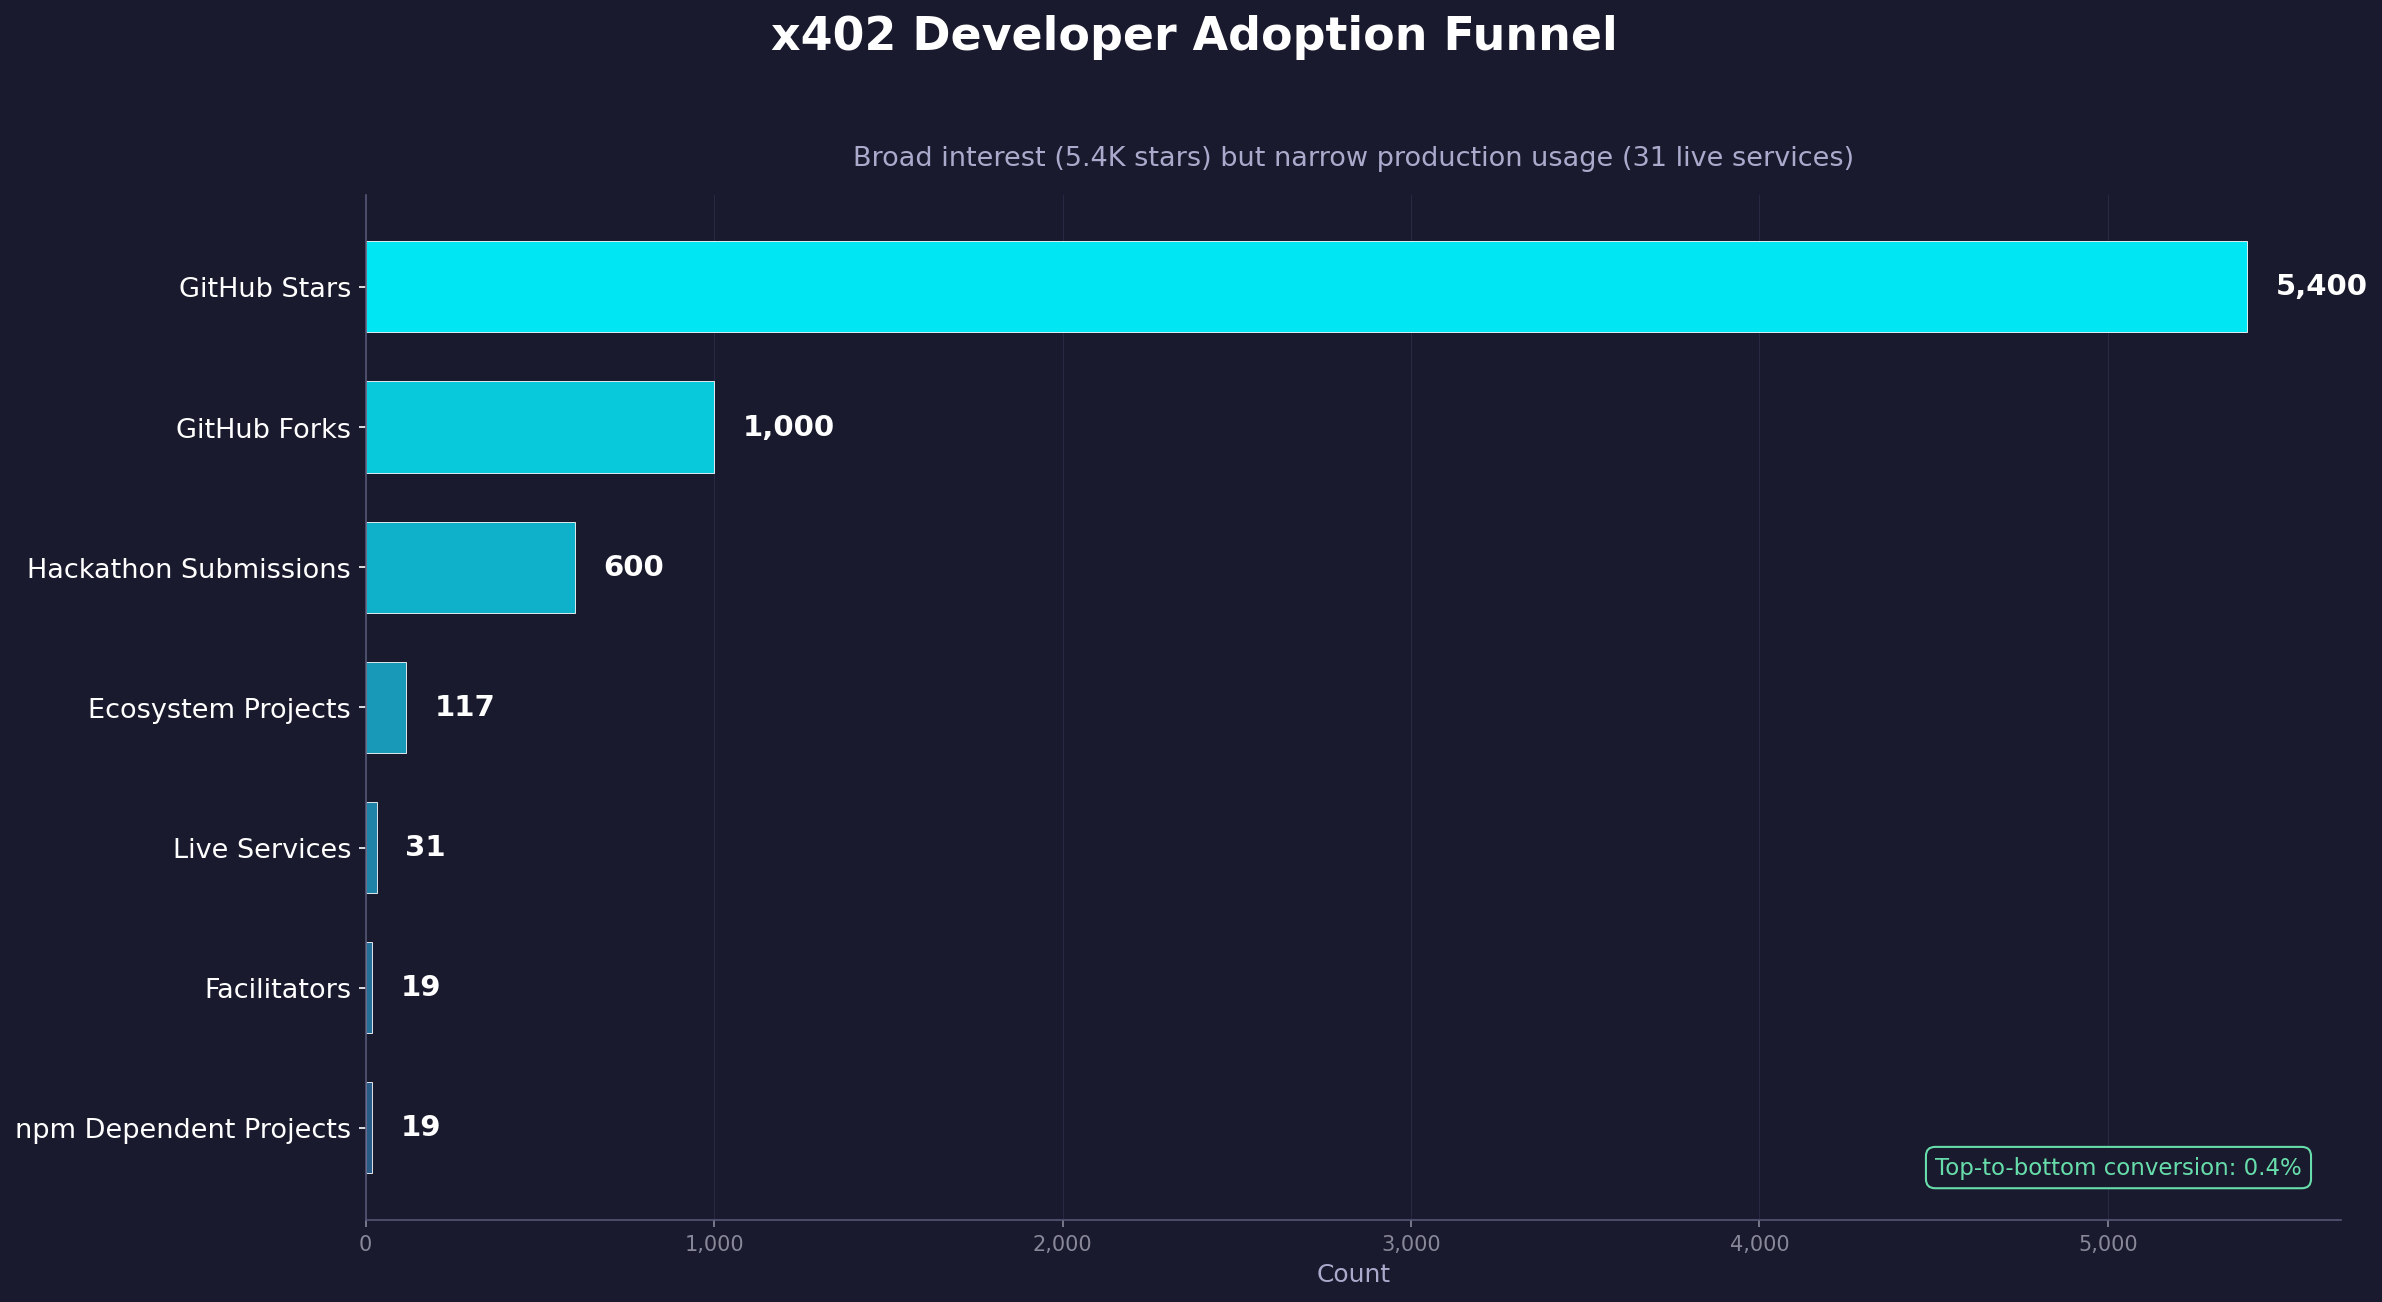
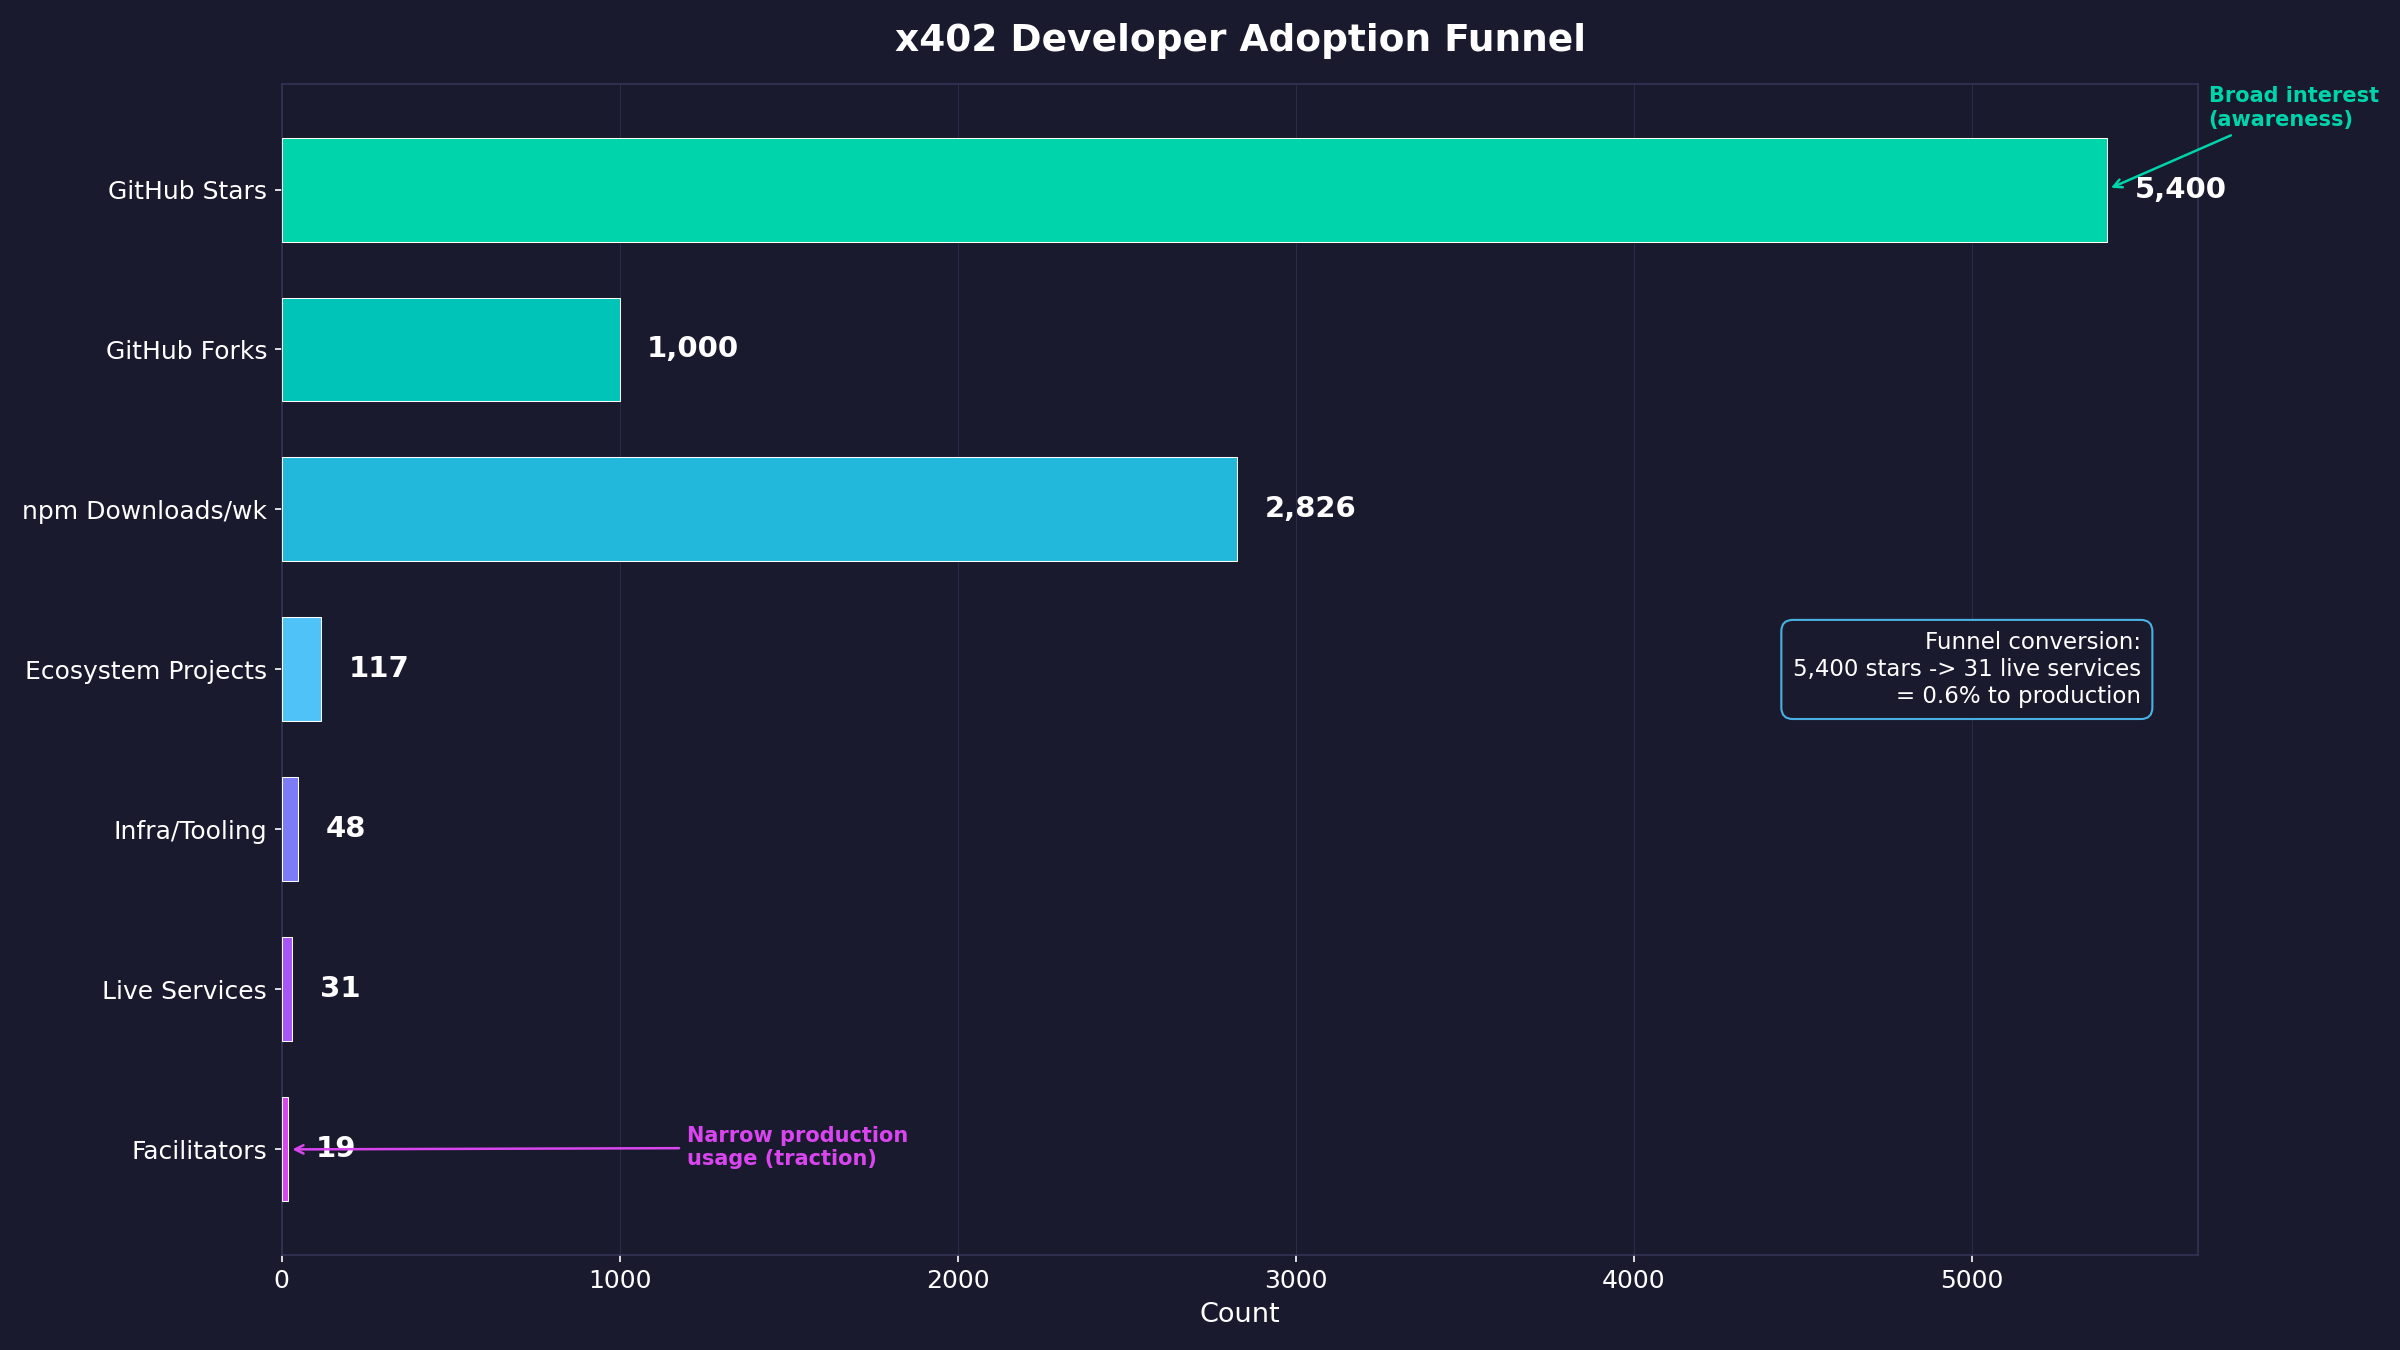
Update x402 charts 7-8 and add data module + value capture analysis
Refined developer adoption funnel and buyer/seller ratio visualizations.
Added x402_data.py shared data module with all raw adoption metrics
(157M tx, chain splits, facilitator shares, user counts) sourced from
Dune Analytics, PANews, Cryptonomist, and x402.org.

diff --git a/gen_x402_charts_7_8.py b/gen_x402_charts_7_8.py
@@ -1,207 +1,170 @@
 """
-Generate x402 Charts 7 & 8:
-  Chart 7: Developer Adoption Funnel
-  Chart 8: Buyer-to-Seller Ratio
+Generate Chart 7 (Developer Adoption) and Chart 8 (Buyer/Seller Ratio)
+for the x402 protocol adoption analysis.
+
+Usage: uv run python gen_x402_charts_7_8.py
 """
 
 import matplotlib.pyplot as plt
-import matplotlib.patches as patches
+import matplotlib.ticker as ticker
+import matplotlib.patches as mpatches
 import numpy as np
 from x402_data import DEVELOPER_METRICS, USER_METRICS
 
 # ---------------------------------------------------------------------------
-# Chart 7: Developer Adoption Funnel
+# Global style
 # ---------------------------------------------------------------------------
+plt.style.use("dark_background")
 
-def chart_7():
-    plt.style.use("dark_background")
+BG = "#1a1a2e"
+GRID_COLOR = "#333355"
+
+
+# =========================================================================
+# CHART 7 -- Developer Adoption Funnel
+# =========================================================================
+
+def build_chart_7():
     fig, ax = plt.subplots(figsize=(16, 9), dpi=150)
-    fig.patch.set_facecolor("#1a1a2e")
-    ax.set_facecolor("#1a1a2e")
+    fig.patch.set_facecolor(BG)
+    ax.set_facecolor(BG)
 
-    # Funnel data (top = largest, bottom = smallest)
+    # Data: ordered from broad interest -> narrow production usage
     labels = [
         "GitHub Stars",
         "GitHub Forks",
-        "Hackathon Submissions",
+        "npm Downloads/wk",
         "Ecosystem Projects",
+        "Infra/Tooling",
         "Live Services",
         "Facilitators",
-        "npm Dependent Projects",
     ]
     values = [
         DEVELOPER_METRICS["github_stars"],           # 5400
         DEVELOPER_METRICS["github_forks"],           # 1000
-        DEVELOPER_METRICS["hackathon_submissions_total"],  # 600
-        DEVELOPER_METRICS["total_ecosystem_projects"],     # 117
-        DEVELOPER_METRICS["live_services_endpoints"],      # 31
-        DEVELOPER_METRICS["facilitator_count"],            # 19
-        DEVELOPER_METRICS["npm_dependent_projects"],       # 19
+        DEVELOPER_METRICS["npm_weekly_downloads_coinbase_x402"],  # 2826
+        DEVELOPER_METRICS["total_ecosystem_projects"],  # 117
+        DEVELOPER_METRICS["infra_tooling_projects"],    # 48
+        DEVELOPER_METRICS["live_services_endpoints"],   # 31
+        DEVELOPER_METRICS["facilitator_count"],         # 19
     ]
 
-    n = len(labels)
-    y_pos = np.arange(n)
+    # Color gradient from bright cyan (broad) to deep purple (narrow)
+    colors = ["#00d4aa", "#00c4b8", "#22b8db", "#4fc3f7", "#7c7cf7", "#a855f7", "#d946ef"]
 
-    # Color gradient: bright cyan at top -> muted teal at bottom
-    colors = []
-    for i in range(n):
-        t = i / (n - 1)  # 0..1
-        r = 0.0 + t * 0.18
-        g = 0.90 - t * 0.45
-        b = 0.95 - t * 0.30
-        a = 1.0 - t * 0.25
-        colors.append((r, g, b, a))
+    bars = ax.barh(labels[::-1], values[::-1], color=colors[::-1], edgecolor="white",
+                   linewidth=0.5, height=0.65, zorder=5)
 
-    bars = ax.barh(y_pos, values, color=colors, edgecolor="white", linewidth=0.4, height=0.65)
+    # Value labels on bars
+    for bar, val in zip(bars, values[::-1]):
+        width = bar.get_width()
+        ax.text(width + max(values) * 0.015, bar.get_y() + bar.get_height() / 2,
+                f"{val:,}", va="center", ha="left", fontsize=14,
+                fontweight="bold", color="white")
 
-    # Value labels on each bar
-    for i, (bar, val) in enumerate(zip(bars, values)):
-        label_x = bar.get_width() + max(values) * 0.015
-        ax.text(
-            label_x, bar.get_y() + bar.get_height() / 2,
-            f"{val:,}",
-            va="center", ha="left",
-            fontsize=14, fontweight="bold", color="white",
-        )
-
-    ax.set_yticks(y_pos)
-    ax.set_yticklabels(labels, fontsize=13, color="white")
-    ax.invert_yaxis()  # largest at top
-
-    ax.set_xlabel("Count", fontsize=12, color="#aaaacc")
-    ax.xaxis.set_major_formatter(plt.FuncFormatter(lambda x, _: f"{x:,.0f}"))
-    ax.tick_params(axis="x", colors="#888899", labelsize=10)
-    ax.grid(axis="x", color="#333355", linewidth=0.5, alpha=0.6)
+    ax.set_title("x402 Developer Adoption Funnel",
+                 fontsize=18, fontweight="bold", color="white", pad=16)
+    ax.set_xlabel("Count", fontsize=13, color="white")
+    ax.tick_params(colors="white", labelsize=12)
+    ax.grid(True, axis="x", color=GRID_COLOR, linewidth=0.5, alpha=0.7)
     ax.set_axisbelow(True)
+    for spine in ax.spines.values():
+        spine.set_color(GRID_COLOR)
 
-    # Remove top/right spines
-    for spine in ["top", "right"]:
-        ax.spines[spine].set_visible(False)
-    ax.spines["bottom"].set_color("#555577")
-    ax.spines["left"].set_color("#555577")
+    # Annotate the funnel story
+    ax.annotate("Broad interest\n(awareness)",
+                xy=(5400, 6), xytext=(5400 + 300, 6.4),
+                fontsize=10, color="#00d4aa", fontweight="bold",
+                arrowprops=dict(arrowstyle="->", color="#00d4aa", lw=1.2))
+    ax.annotate("Narrow production\nusage (traction)",
+                xy=(19, 0), xytext=(1200, -0.1),
+                fontsize=10, color="#d946ef", fontweight="bold",
+                arrowprops=dict(arrowstyle="->", color="#d946ef", lw=1.2))
 
-    # Title & subtitle
-    fig.suptitle(
-        "x402 Developer Adoption Funnel",
-        fontsize=22, fontweight="bold", color="white",
-        x=0.5, y=0.96,
-    )
-    ax.set_title(
-        "Broad interest (5.4K stars) but narrow production usage (31 live services)",
-        fontsize=13, color="#aaaacc", pad=14,
-    )
+    # Conversion ratio callout
+    ax.text(0.97, 0.50,
+            "Funnel conversion:\n5,400 stars -> 31 live services\n= 0.6% to production",
+            transform=ax.transAxes, fontsize=11, color="white",
+            ha="right", va="center",
+            bbox=dict(boxstyle="round,pad=0.5", fc=BG, ec="#4fc3f7", alpha=0.9))
 
-    # Add a conversion annotation
-    conversion = values[-1] / values[0] * 100
-    ax.annotate(
-        f"Top-to-bottom conversion: {conversion:.1f}%",
-        xy=(0.98, 0.04), xycoords="axes fraction",
-        ha="right", va="bottom",
-        fontsize=11, color="#66ddaa",
-        bbox=dict(boxstyle="round,pad=0.4", fc="#1a1a2e", ec="#66ddaa", lw=1),
-    )
-
-    plt.tight_layout(rect=[0, 0, 1, 0.93])
-    fig.savefig("charts/x402_07_developer_adoption.png", facecolor=fig.get_facecolor(), bbox_inches="tight")
+    fig.tight_layout()
+    fig.savefig("/Users/cat/memo-fintech-agents/charts/x402_07_developer_adoption.png",
+                facecolor=fig.get_facecolor(), edgecolor="none")
     plt.close(fig)
     print("Saved charts/x402_07_developer_adoption.png")
 
 
-# ---------------------------------------------------------------------------
-# Chart 8: Buyer-to-Seller Ratio
-# ---------------------------------------------------------------------------
+# =========================================================================
+# CHART 8 -- Buyer/Seller Ratio
+# =========================================================================
 
-def chart_8():
-    plt.style.use("dark_background")
+def build_chart_8():
     fig, ax = plt.subplots(figsize=(16, 9), dpi=150)
-    fig.patch.set_facecolor("#1a1a2e")
-    ax.set_facecolor("#1a1a2e")
-    ax.set_xlim(0, 16)
-    ax.set_ylim(0, 9)
-    ax.set_aspect("equal")
-    ax.axis("off")
+    fig.patch.set_facecolor(BG)
+    ax.set_facecolor(BG)
 
-    buyers = int(USER_METRICS.loc[USER_METRICS["date"] == "2025-10-26", "buyers"].values[0])
-    sellers = int(USER_METRICS.loc[USER_METRICS["date"] == "2025-10-26", "sellers"].values[0])
-    ratio = buyers / sellers  # ~52.7
+    # Latest data point: Oct 26 2025
+    row = USER_METRICS.iloc[-1]
+    buyers = int(row["buyers"])    # 74,000
+    sellers = int(row["sellers"])  # 1,405
+    ratio = buyers / sellers       # ~52.7
 
-    # Proportional circles: area proportional to count
-    # buyer area / seller area = 74000 / 1405 ~ 52.7
-    # radius ratio = sqrt(52.7) ~ 7.26
-    max_radius = 3.2  # buyer circle radius
-    seller_radius = max_radius / np.sqrt(ratio)
+    # Proportional area circles
+    # Area proportional to count; radius ~ sqrt(count)
+    max_r = 3.5
+    buyer_r = max_r
+    seller_r = max_r * np.sqrt(sellers / buyers)
 
-    buyer_color = "#3b82f6"
-    seller_color = "#f59e0b"
+    buyer_circle = plt.Circle((5.5, 5), buyer_r, color="#4fc3f7", alpha=0.85, zorder=5)
+    seller_circle = plt.Circle((12.5, 5), seller_r, color="#ff6b6b", alpha=0.85, zorder=5)
 
-    # Position circles
-    buyer_cx, buyer_cy = 5.0, 4.2
-    seller_cx, seller_cy = 12.2, 4.2
-
-    # Draw buyer circle
-    buyer_circle = plt.Circle(
-        (buyer_cx, buyer_cy), max_radius,
-        fc=buyer_color, ec="white", linewidth=1.5, alpha=0.85,
-    )
     ax.add_patch(buyer_circle)
-
-    # Draw seller circle
-    seller_circle = plt.Circle(
-        (seller_cx, seller_cy), seller_radius,
-        fc=seller_color, ec="white", linewidth=1.5, alpha=0.85,
-    )
     ax.add_patch(seller_circle)
 
     # Labels inside/near circles
-    ax.text(buyer_cx, buyer_cy + 0.3, "BUYERS", ha="center", va="center",
-            fontsize=18, fontweight="bold", color="white")
-    ax.text(buyer_cx, buyer_cy - 0.4, f"{buyers:,}", ha="center", va="center",
-            fontsize=28, fontweight="bold", color="white")
+    ax.text(5.5, 5, f"{buyers:,}\nBuyers", ha="center", va="center",
+            fontsize=22, fontweight="bold", color="white", zorder=10)
+    ax.text(12.5, 5, f"{sellers:,}\nSellers", ha="center", va="center",
+            fontsize=14, fontweight="bold", color="white", zorder=10)
 
-    ax.text(seller_cx, seller_cy + seller_radius + 0.55, "SELLERS", ha="center", va="center",
-            fontsize=14, fontweight="bold", color=seller_color)
-    ax.text(seller_cx, seller_cy + seller_radius + 1.1, f"{sellers:,}", ha="center", va="center",
-            fontsize=18, fontweight="bold", color=seller_color)
+    # Giant ratio number
+    ax.text(9.0, 8.8, f"{ratio:.0f}:1", ha="center", va="center",
+            fontsize=64, fontweight="bold", color="#00d4aa", zorder=10)
+    ax.text(9.0, 7.7, "Buyer-to-Seller Ratio", ha="center", va="center",
+            fontsize=16, color="white", zorder=10)
 
-    # Central ratio stat
-    ratio_cx = (buyer_cx + max_radius + seller_cx - seller_radius) / 2
-    ratio_cy = buyer_cy
-    ax.text(ratio_cx, ratio_cy + 0.25, "53:1", ha="center", va="center",
-            fontsize=52, fontweight="bold", color="white",
-            bbox=dict(boxstyle="round,pad=0.3", fc="#1a1a2e", ec="#888899", lw=1.5))
-    ax.text(ratio_cx, ratio_cy - 1.0, "buyer : seller", ha="center", va="center",
-            fontsize=14, color="#aaaacc")
+    # Arrow connecting them
+    ax.annotate("", xy=(12.5 - seller_r - 0.3, 5), xytext=(5.5 + buyer_r + 0.3, 5),
+                arrowprops=dict(arrowstyle="->", color="#00d4aa", lw=2.5))
 
-    # Annotation: sellers have pricing power
-    ax.text(8.0, 0.7,
-            "Sellers have extreme pricing power -- demand outstrips supply by 53x",
-            ha="center", va="center", fontsize=13, color="#f59e0b", style="italic")
+    # Insight callout
+    ax.text(9.0, 1.5,
+            "Massive demand surplus: sellers have pricing power.\n"
+            "70,000 buyers added in just 3 days (Oct 23-26, 2025).",
+            ha="center", va="center", fontsize=12, color="#cccccc",
+            bbox=dict(boxstyle="round,pad=0.6", fc=BG, ec=GRID_COLOR, alpha=0.9))
 
-    # Title & subtitle
-    fig.suptitle(
-        "x402 Buyer-to-Seller Ratio: Sellers Have Pricing Power",
-        fontsize=22, fontweight="bold", color="white",
-        x=0.5, y=0.97,
-    )
-    fig.text(
-        0.5, 0.915,
-        "74,000 buyers competing for 1,405 sellers (Oct 26, 2025)",
-        ha="center", fontsize=13, color="#aaaacc",
-    )
+    ax.set_xlim(0, 18)
+    ax.set_ylim(0, 10.5)
+    ax.set_aspect("equal")
+    ax.axis("off")
 
-    # Area proportionality note
-    fig.text(
-        0.5, 0.03,
-        "Circle area proportional to count",
-        ha="center", fontsize=10, color="#666688",
-    )
+    ax.set_title("x402 Buyer vs. Seller Imbalance",
+                 fontsize=18, fontweight="bold", color="white", pad=16)
 
-    fig.savefig("charts/x402_08_buyer_seller_ratio.png", facecolor=fig.get_facecolor(), bbox_inches="tight")
+    fig.tight_layout()
+    fig.savefig("/Users/cat/memo-fintech-agents/charts/x402_08_buyer_seller_ratio.png",
+                facecolor=fig.get_facecolor(), edgecolor="none")
     plt.close(fig)
     print("Saved charts/x402_08_buyer_seller_ratio.png")
 
 
+# =========================================================================
+# Main
+# =========================================================================
+
 if __name__ == "__main__":
-    chart_7()
-    chart_8()
-    print("Done: Charts 7 & 8 generated.")
+    build_chart_7()
+    build_chart_8()
+    print("Done -- both charts generated.")
